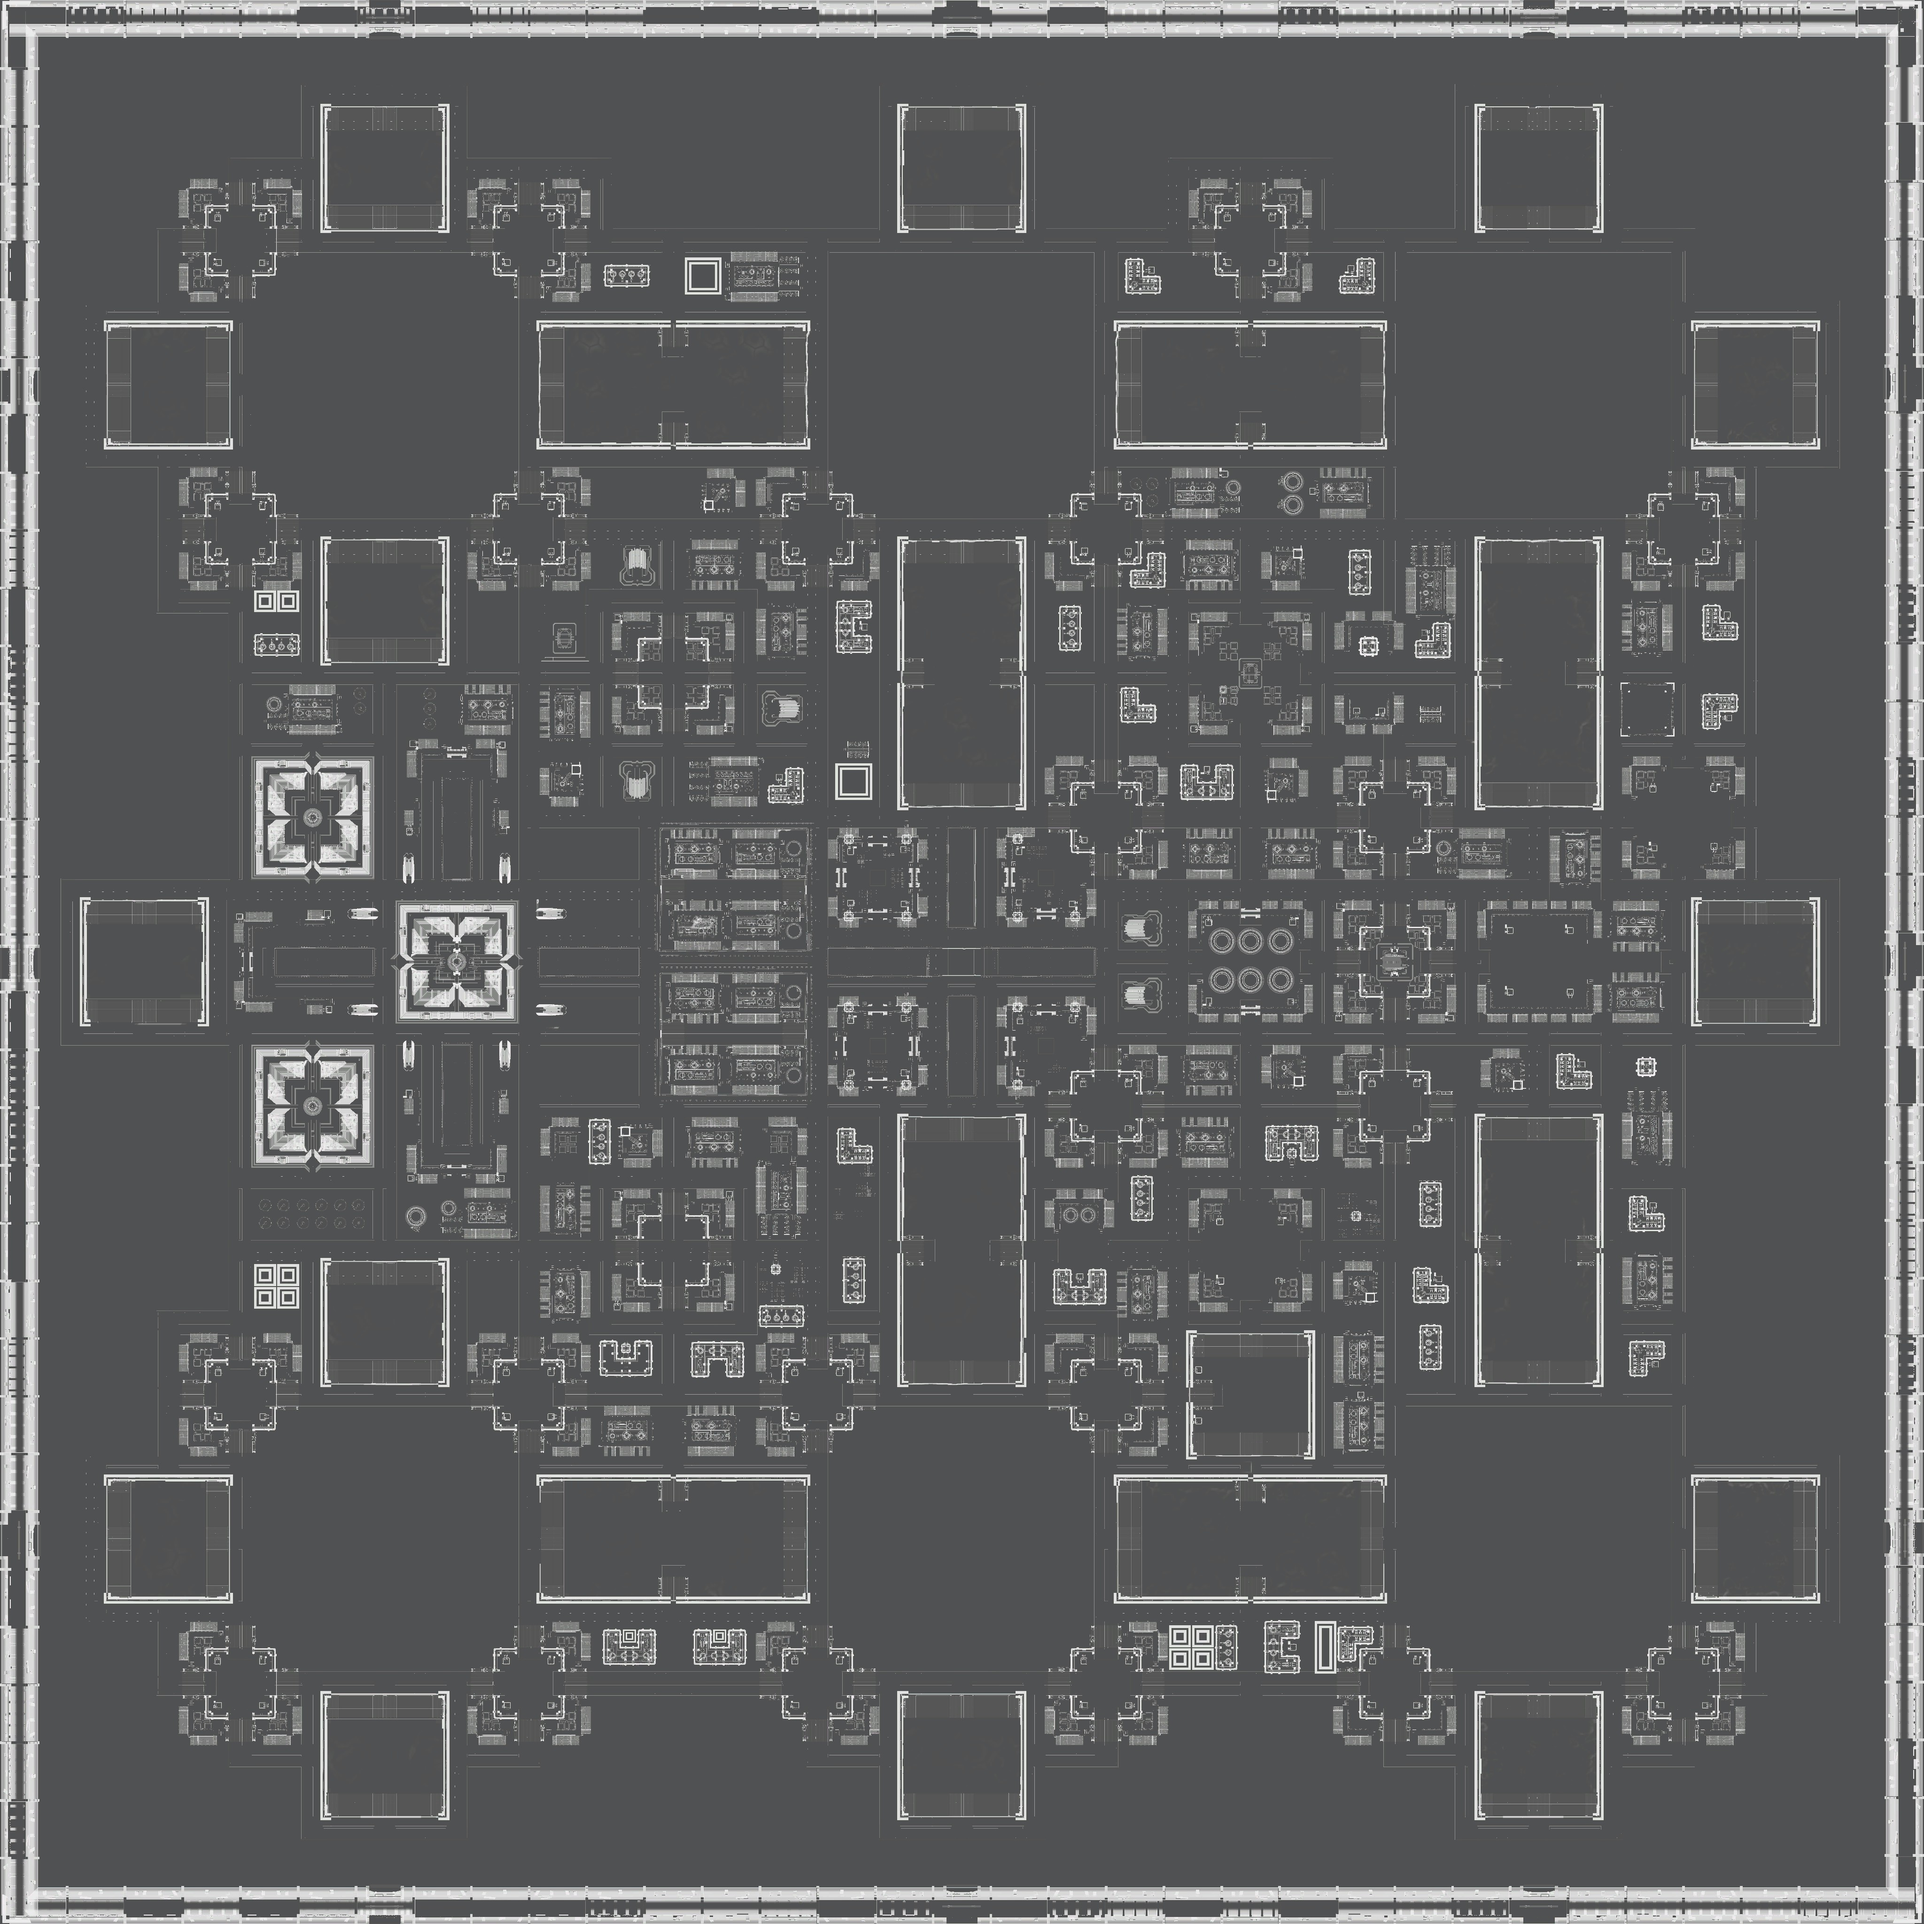
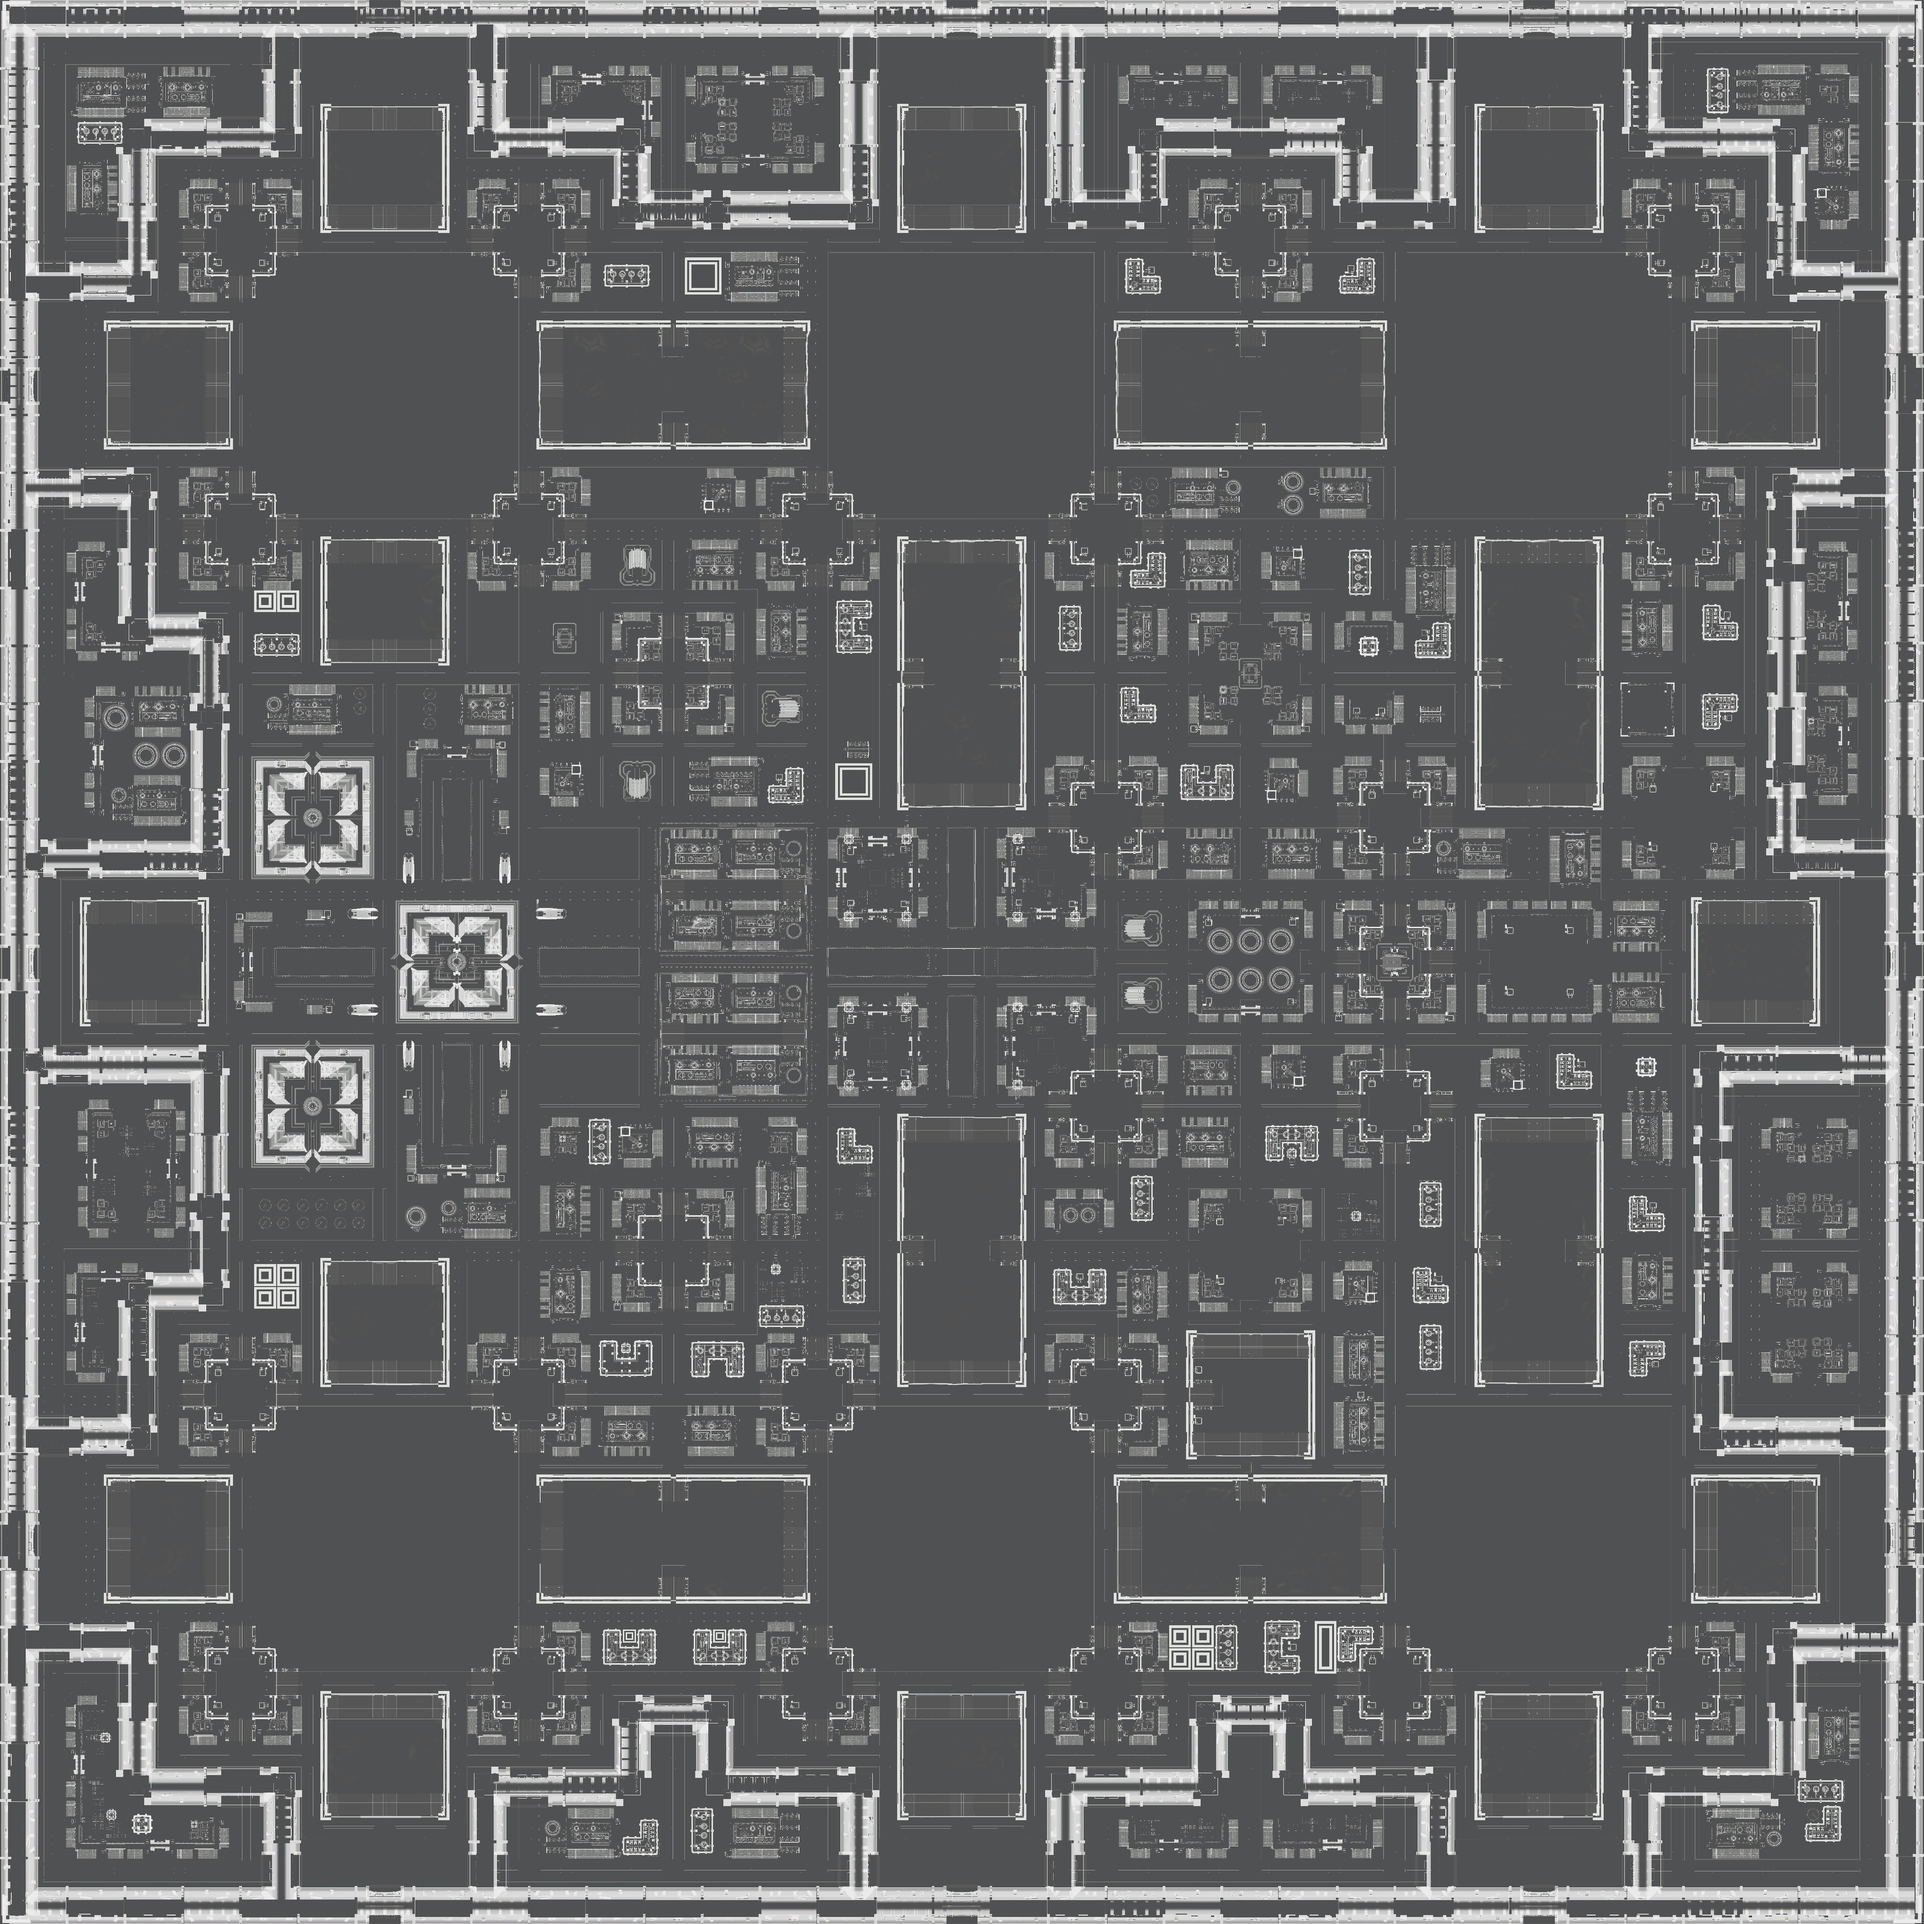
Re-export map images from the redesigned game assets
CrimsonPeak, GreatErg, NarakaCity, NorthPolarCap, TheMaw, Citadel and
IndustrialQuarter switched to the new grey line-art style. Sizes and
world extents are unchanged, so masks and layouts still line up.
preprocess.py now flattens transparent map PNGs onto the map grey
(Citadel ships as line art on transparency).

diff --git a/preprocess.py b/preprocess.py
@@ -72,7 +72,11 @@ def extract_map_image(map_name):
         pak = AssetPack(str(ASSETS_PAK))
         rel = f"Maps/{map_name}.png"
         if pak.has_asset(rel):
-            img = pak.load_image(rel).convert("RGB")
+            # Some maps (e.g. Citadel since the 1.0.x redesign) are white line
+            # art on transparency; flatten onto the grey of the opaque maps.
+            img = pak.load_image(rel).convert("RGBA")
+            bg = Image.new("RGBA", img.size, (79, 81, 82, 255))
+            img = Image.alpha_composite(bg, img).convert("RGB")
             img.save(str(out_path), "JPEG", quality=90)
             print(f"  [OK] Extracted {map_name}.jpg ({img.size[0]}x{img.size[1]})")
             return True

diff --git a/changelog.md b/changelog.md
@@ -1,5 +1,12 @@
 # Changelog
 
+## 2026-10-29 — New map designs
+
+### Changed
+- Map images re-exported from the updated game assets (MapReplay `assets.pak`): new grey line-art style for CrimsonPeak, GreatErg, NarakaCity, NorthPolarCap, TheMaw, Citadel, IndustrialQuarter; Badlands, BlackIsle, CrystalChasm, MonumentValley, RiftBasin, WhisperingPlains unchanged
+- Image sizes and world extents unchanged, so masks, resources and saved layouts still line up
+- `preprocess.py` flattens transparent map PNGs onto the map grey (Citadel is now line art on transparency and came out blank)
+
 ## 2026-08-15 — Measure box
 
 ### Added
